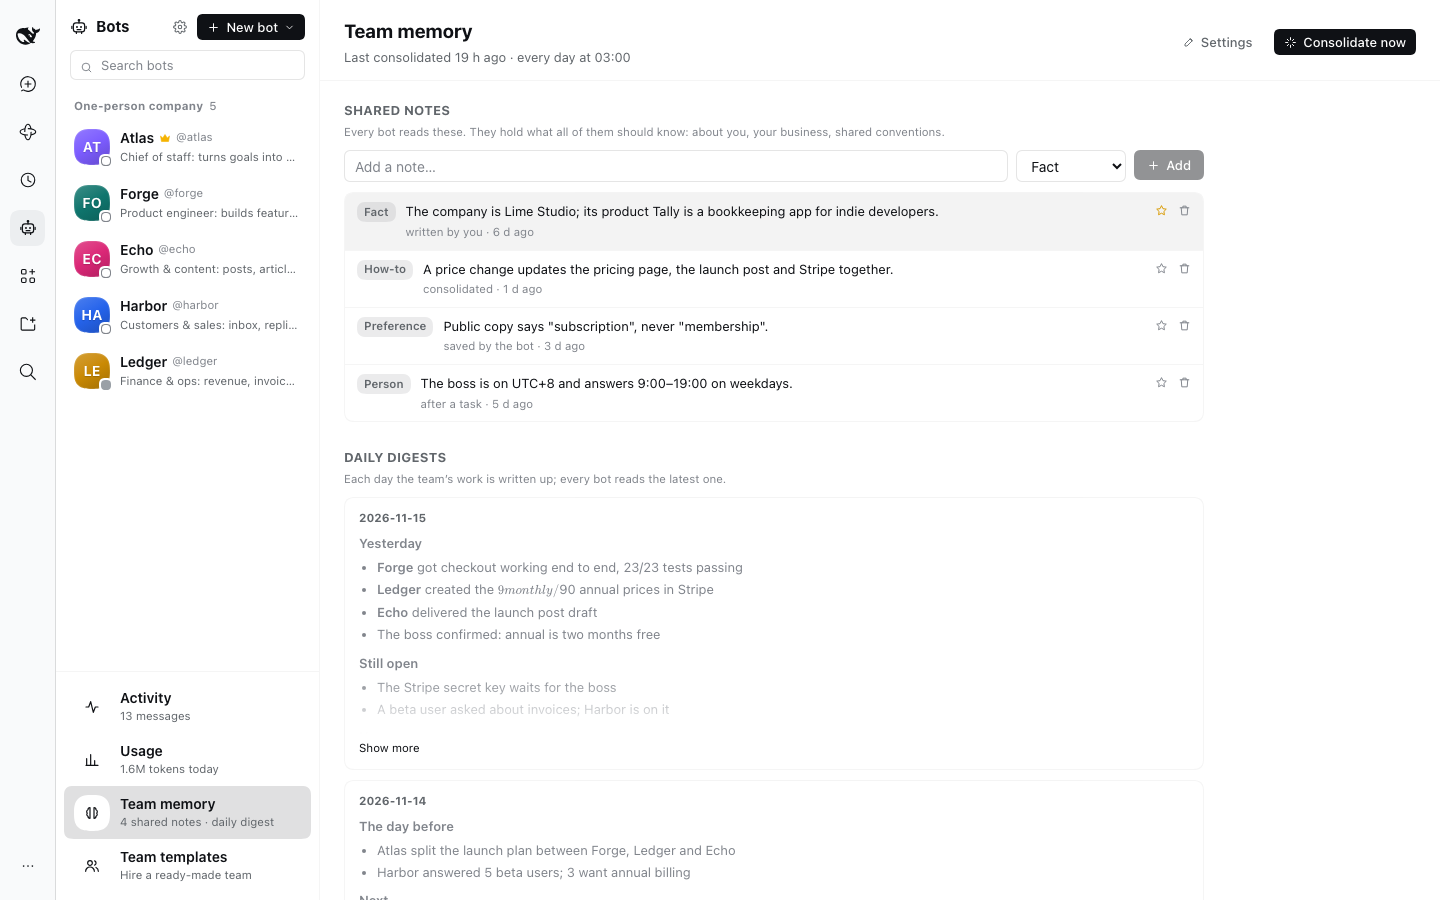
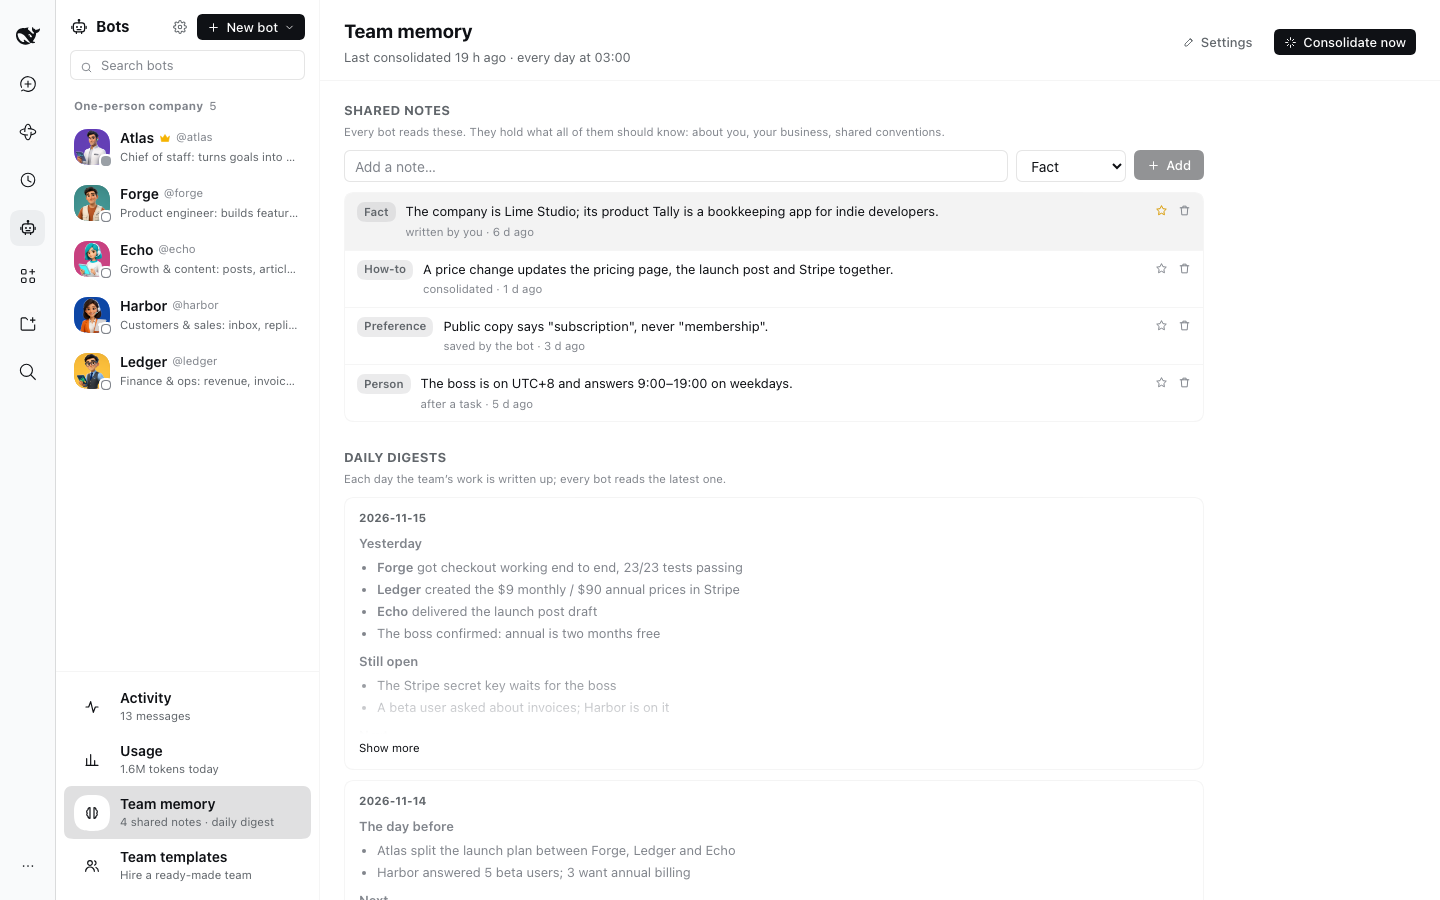
Bots 0.7.1: dollar amounts stay amounts in bot replies
Harness's Markdown renderer reads text between two dollar signs as
inline math, so a reply or a daily digest saying "the $9 monthly / $90
annual prices" showed "9 monthly / " as a formula. A dollar sign right
before a digit is now escaped before rendering, outside code spans and
blocks; real formulas such as $x^2$ are left alone.

The README screenshots are taken again with the team's AI avatars, the
same faces as in the launch video, and the English Team memory shot
shows the digest's amounts as written.

diff --git a/plugins/bots/client.js b/plugins/bots/client.js
@@ -1259,10 +1259,20 @@ a.dshb-lc:hover{border-color:${C.border};background:${C.layer2}}
     }
 
     /** Markdown through the product's own renderer (the same as the main chat), else a small built-in one. */
+    /**
+     * Amounts stay amounts: the Harness renderer reads `$…$` as inline math, so "$9 monthly / $90 annual"
+     * would turn into a formula. A `$` right before a digit is escaped, outside code.
+     */
+    function moneySafe(text) {
+      return str(text)
+        .split(/(```[\s\S]*?(?:```|$)|`[^`\n]*`)/g)
+        .map((part, i) => (i % 2 ? part : part.replace(/(^|[^\\])\$(?=\d)/g, '$1\\$')))
+        .join('');
+    }
     function RichText({ t, text }) {
       const Md = primitives && primitives.MarkdownText;
       if (Md && (typeof Md === 'function' || typeof Md === 'object')) {
-        return h('div', { className: 'dshb-rich', 'data-dsh-bots-md': 'harness' }, h(Md, { text, labels: mdLabels(t), variant: 'compact' }));
+        return h('div', { className: 'dshb-rich', 'data-dsh-bots-md': 'harness' }, h(Md, { text: moneySafe(text), labels: mdLabels(t), variant: 'compact' }));
       }
       return h('div', { className: 'dshb-rich dshb-mdf', 'data-dsh-bots-md': 'builtin' }, miniMarkdown(text));
     }

diff --git a/README.md b/README.md
@@ -28,7 +28,7 @@ git+https://github.com/kadaliao/dsh-plugins.git#main&path:/plugins/prompt-en
 
 | Plugin | What it does |
 | --- | --- |
-| [Bots](plugins/bots) · 0.7.0 | Grok-style bot teams for one-person companies and role-split work: hire a ready-made team (one-person company, software squad, content studio, research desk) in one click, each bot with its own persona, avatar, model, skills, abilities, apps and scheduled tasks — and its own memory, summarized after every task and consolidated nightly with the team's shared memory. Bots message each other and a dispatcher hands out the work. Built on Harness: reuse your installed skills, import skills from GitHub or a local folder or let a bot write its own, and import MCP servers from Codex, Claude Code or Cursor. Run a bot on your own endpoint or the Codex CLI's ChatGPT login; conversations start a new topic before they grow too big; a usage view counts tokens and cost by bot, task and day. Message the team from Feishu / Lark, Telegram, Slack or Discord. Bilingual. |
+| [Bots](plugins/bots) · 0.7.1 | Grok-style bot teams for one-person companies and role-split work: hire a ready-made team (one-person company, software squad, content studio, research desk) in one click, each bot with its own persona, avatar, model, skills, abilities, apps and scheduled tasks — and its own memory, summarized after every task and consolidated nightly with the team's shared memory. Bots message each other and a dispatcher hands out the work. Built on Harness: reuse your installed skills, import skills from GitHub or a local folder or let a bot write its own, and import MCP servers from Codex, Claude Code or Cursor. Run a bot on your own endpoint or the Codex CLI's ChatGPT login; conversations start a new topic before they grow too big; a usage view counts tokens and cost by bot, task and day. Message the team from Feishu / Lark, Telegram, Slack or Discord. Bilingual. |
 | [Images](plugins/images) · 0.5.5 | Ask for a picture and get one: a `generate_image` tool for the model, backed by your provider's image model, with the picture shown in the conversation and an **Images** panel collecting everything drawn as a gallery to browse, enlarge and download. A settings drawer picks the provider, key and model (searchable as you type), and every picture shows what it cost, with the public LiteLLM price list covering models the provider does not price. Ask for a GIF and it draws a sprite sheet and assembles a looping animated GIF from it; pass reference images (attachments, files, earlier results) to edit or build on them. |
 | [Prompt EN](plugins/prompt-en) · 0.2.0 | English under every prompt: a translation when you write in another language, or a review with corrections and better alternatives when you write in English. What it teaches goes into a vocabulary book you review with `/vocab`. |
 

diff --git a/README.zh-CN.md b/README.zh-CN.md
@@ -28,7 +28,7 @@ git+https://github.com/kadaliao/dsh-plugins.git#main&path:/plugins/prompt-en
 
 | 插件 | 作用 |
 | --- | --- |
-| [Bots](plugins/bots/README.zh-CN.md) · 0.7.0 | 给一人公司和分工协作场景的 Grok 式 bot 团队：一键雇用现成团队（一人公司、研发小队、内容工作室、研究台），每个 bot 有自己的人设、头像、模型、技能、能力、应用和定时任务，还有自己的记忆：每个任务后自动总结，每晚和团队共享记忆一起整理；bot 之间私信协作，调度员负责分派。充分复用 Harness：直接用你已装的技能、从 GitHub 或本地文件夹导入、或让 bot 自己写技能，从 Codex、Claude Code、Cursor 导入 MCP 服务。bot 可以用自定义端点或 Codex CLI 的 ChatGPT 登录；对话太长前自动开新话题；用量页按 bot、任务、日期统计 tokens 和费用。在飞书、Telegram、Slack 或 Discord 里就能给团队派活。中英双语。 |
+| [Bots](plugins/bots/README.zh-CN.md) · 0.7.1 | 给一人公司和分工协作场景的 Grok 式 bot 团队：一键雇用现成团队（一人公司、研发小队、内容工作室、研究台），每个 bot 有自己的人设、头像、模型、技能、能力、应用和定时任务，还有自己的记忆：每个任务后自动总结，每晚和团队共享记忆一起整理；bot 之间私信协作，调度员负责分派。充分复用 Harness：直接用你已装的技能、从 GitHub 或本地文件夹导入、或让 bot 自己写技能，从 Codex、Claude Code、Cursor 导入 MCP 服务。bot 可以用自定义端点或 Codex CLI 的 ChatGPT 登录；对话太长前自动开新话题；用量页按 bot、任务、日期统计 tokens 和费用。在飞书、Telegram、Slack 或 Discord 里就能给团队派活。中英双语。 |
 | [图片](plugins/images/README.zh-CN.md) · 0.5.5 | 要一张图就给一张图：给模型一个 `generate_image` 工具，用你供应商的生图模型出图，图直接显示在对话里；「图片」面板把画过的都收成图库，可浏览、放大、下载。设置抽屉里选供应商、密钥和模型（输入即可模糊搜索），每张图都标出费用；供应商不给价的模型用公开的 LiteLLM 价目表兜底。要动图时让模型画一张精灵图，自动拼成循环播放的 GIF；也能带参考图（对话附件、文件、之前生成的图）改图或接着画。 |
 | [Prompt EN](plugins/prompt-en/README.zh-CN.md) · 0.2.0 | 在每条 prompt 下方写一行英文：用其他语言写的给出译文，用英文写的给出纠错和更地道的替代说法。教过你的说法收进生词本，用 `/vocab` 复习。 |
 
